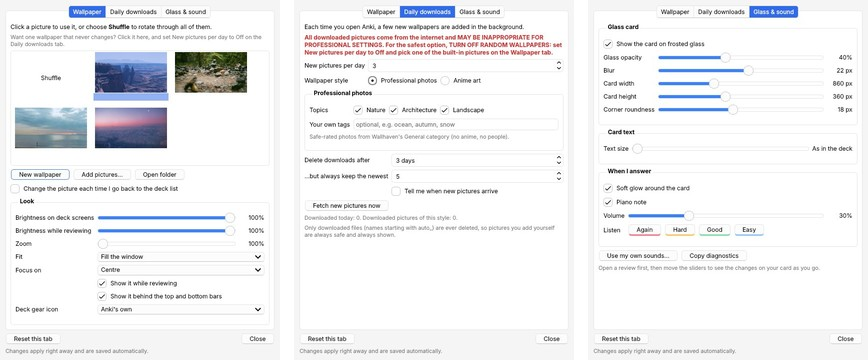
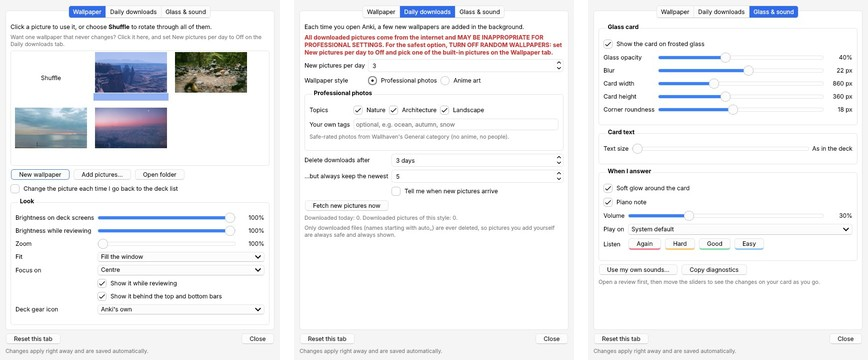
1.3: choose the output device for the piano note
Settings → Glass & sound gets a Play on list (System default plus Qt's
audio outputs). A chosen device is played through QSoundEffect with that
device; the default keeps using Web Audio in the review page.

Claude-Session: https://claude.ai/code/session_012cZ2edc3Z83QWC5adsUwSL

Changed region(s): [[0.6843, 0.6111, 0.9332, 0.7944]]

diff --git a/docs/ankiweb_description.html b/docs/ankiweb_description.html
@@ -7,7 +7,7 @@
 <li><b>Wallpaper behind every screen</b>: deck list, overview, reviewer, and the top and bottom bars, lined up seamlessly in light and dark mode.</li>
 <li><b>New wallpapers every day</b>: professional photos (Nature, Architecture, Landscape, or your own tags) or anime art, safe-rated only, from Wallhaven and Konachan. You can also turn downloads off and keep one picture. Four built-in film photographs are included, and you can add your own.</li>
 <li><b>Frosted-glass card</b> with adjustable opacity, blur, width, height and corners. Cards keep a steady size.</li>
-<li><b>Answer feedback</b>: a soft glow and a short piano note, different for Again, Hard, Good and Easy. You can adjust the volume or turn either off.</li>
+<li><b>Answer feedback</b>: a soft glow and a short piano note, different for Again, Hard, Good and Easy. You can adjust the volume, choose which speakers or headphones play it, or turn either off.</li>
 <li><b>Card text size</b> slider. It changes only the size, so bold, colors and links stay as they are.</li>
 <li><b>New wallpaper</b> button on the deck list, and Ctrl+Shift+W anywhere.</li>
 <li>One <b>Settings</b> window (Tools → Frosted Glass → Settings). Changes show up live.</li>

diff --git a/src/frosted_glass_theme/frosted_glass/web/feedback.js b/src/frosted_glass_theme/frosted_glass/web/feedback.js
@@ -54,6 +54,8 @@
 
   function playSound(key) {
     var buf = buffers[key];
+    // A speaker chosen in Settings is played by the add-on, which can pick it.
+    if (cfg().native_sound && window.pycmd) { pycmd("fgsound:" + key); return; }
     if (ctx && buf && ctx.state === "running") {
       var src = ctx.createBufferSource();
       var fade = ctx.createGain();

diff --git a/src/frosted_glass_theme/frosted_glass/__init__.py b/src/frosted_glass_theme/frosted_glass/__init__.py
@@ -45,6 +45,7 @@ DEFAULTS = {
     "panel_max_width_px": 860,
     "panel_min_height_px": 360,
     "card_font_px": 0,
+    "sound_device": "",        # "" = system default; else the device's name
     "corner_radius_px": 18,
     "colors": {"again": "#ff7a8a", "hard": "#ffc56b", "good": "#7fe0a8", "easy": "#8cc8ff"},
 }
@@ -154,6 +155,8 @@ def page_config(cfg):
         "text_px": int(_num(cfg.get("card_font_px"), 0, 0, 96)),
         "glow_on": bool(cfg.get("visual_feedback_enabled", True)),
         "sound_on": bool(cfg.get("sound_enabled", True)),
+        # a chosen speaker is played through Qt, which can pick the device
+        "native_sound": chosen_device(cfg) is not None,
         "answer_keys": answer_keys(),
         "vars": {
             "--fg-blur": f"{_num(cfg.get('blur_px'), 22, 0, 60):g}px",
@@ -230,7 +233,32 @@ _next = {}
 _sound_ok = None
 
 
-def load_sounds():
+def output_devices():
+    """Names of the speakers and headphones Qt can play to."""
+    try:
+        from PyQt6.QtMultimedia import QMediaDevices
+        return [d.description() for d in QMediaDevices.audioOutputs()]
+    except Exception:
+        return []
+
+
+def chosen_device(cfg=None):
+    """The QAudioDevice picked in Settings, or None for the system default
+    (also when the picked one isn't plugged in right now)."""
+    name = str((cfg or get_config()).get("sound_device") or "")
+    if not name:
+        return None
+    try:
+        from PyQt6.QtMultimedia import QMediaDevices
+        for device in QMediaDevices.audioOutputs():
+            if device.description() == name:
+                return device
+    except Exception:
+        pass
+    return None
+
+
+def load_sounds(cfg=None):
     global _sound_ok
     _effects.clear()
     try:
@@ -239,7 +267,9 @@ def load_sounds():
         _sound_ok = False
         log("QtMultimedia not available.\n" + traceback.format_exc())
         return
-    volume = _num(get_config().get("sound_volume"), 0.3, 0.0, 1.0)
+    cfg = cfg or get_config()
+    volume = _num(cfg.get("sound_volume"), 0.3, 0.0, 1.0)
+    device = chosen_device(cfg)
     for key in KEYS:
         path = sound_path(key)
         if not path:
@@ -247,6 +277,8 @@ def load_sounds():
         players = []
         for _ in range(2):
             effect = QSoundEffect(mw)
+            if device is not None:
+                effect.setAudioDevice(device)
             effect.setSource(QUrl.fromLocalFile(path))
             effect.setVolume(volume)
             players.append(effect)

diff --git a/src/frosted_glass_theme/settings_window.py b/src/frosted_glass_theme/settings_window.py
@@ -469,7 +469,20 @@ class GlassTab(QWidget):
         slider.sliderReleased.connect(lambda: fg.play_native("good"))
         self.sliders["sound_volume"] = (slider, 0.01)
         agrid.addLayout(row, 2, 1, 1, 2)
-        agrid.addWidget(QLabel("Listen"), 3, 0)
+        agrid.addWidget(QLabel("Play on"), 3, 0)
+        self.device = QComboBox()
+        self.device.addItem("System default", "")
+        for name in fg.output_devices():
+            self.device.addItem(name, name)
+        current = str(self.cfg.get("sound_device") or "")
+        if current and self.device.findData(current) < 0:
+            self.device.addItem(f"{current} (not connected)", current)
+        self.device.setCurrentIndex(max(0, self.device.findData(current)))
+        self.device.setToolTip("Which speakers or headphones play the piano note. "
+                               "If the one you pick isn't connected, the system default is used.")
+        self.device.currentIndexChanged.connect(self._device_changed)
+        agrid.addWidget(self.device, 3, 1, 1, 2)
+        agrid.addWidget(QLabel("Listen"), 4, 0)
         listen = QHBoxLayout()
         for key in fg.KEYS:
             b = QPushButton(key.capitalize())
@@ -478,7 +491,7 @@ class GlassTab(QWidget):
             b.clicked.connect(lambda _c=False, k=key: fg.play_native(k))
             listen.addWidget(b)
         listen.addStretch(1)
-        agrid.addLayout(listen, 3, 1, 1, 2)
+        agrid.addLayout(listen, 4, 1, 1, 2)
         agrid.setColumnStretch(1, 1)
         layout.addWidget(answer)
 
@@ -513,10 +526,16 @@ class GlassTab(QWidget):
             web.eval(f"window.fgApply && window.fgApply({json.dumps(fg.page_config(self.cfg))});")
         fg.sync_menu(self.cfg)
 
+    def _device_changed(self, _index):
+        self._set("sound_device", self.device.currentData() or "")
+        fg.load_sounds(self.cfg)
+        fg.play_native("good")
+
     def restore_defaults(self):
         for key, (slider, scale) in self.sliders.items():
             slider.setValue(int(round(fg.DEFAULTS[key] / scale)))
         self.text_slider.setValue(TEXT_OFF)
+        self.device.setCurrentIndex(0)
         for option, box in self.checks.items():
             box.setChecked(fg.DEFAULTS[option])
 

diff --git a/docs/ankiweb_description.md b/docs/ankiweb_description.md
@@ -7,7 +7,7 @@
 - **Wallpaper behind every screen**: deck list, overview, reviewer, and the top and bottom bars, lined up seamlessly in light and dark mode.
 - **New wallpapers every day**: professional photos (Nature, Architecture, Landscape, or your own tags) or anime art, safe-rated only, from Wallhaven and Konachan. You can also turn downloads off and keep one picture. Four built-in film photographs are included, and you can add your own.
 - **Frosted-glass card** with adjustable opacity, blur, width, height and corners. Cards keep a steady size.
-- **Answer feedback**: a soft glow and a short piano note, different for Again, Hard, Good and Easy. You can adjust the volume or turn either off.
+- **Answer feedback**: a soft glow and a short piano note, different for Again, Hard, Good and Easy. You can adjust the volume, choose which speakers or headphones play it, or turn either off.
 - **Card text size** slider. It changes only the size, so bold, colors and links stay as they are.
 - **New wallpaper** button on the deck list, and Ctrl+Shift+W anywhere.
 - One **Settings** window (Tools → Frosted Glass → Settings). Changes show up live.

diff --git a/README.md b/README.md
@@ -12,7 +12,7 @@ A calm, good-looking Anki. Your cards sit on a pane of frosted glass over a wall
   - **Anime art** from Konachan and Wallhaven, safe-rated pictures only.
   - Or turn downloads off and keep one picture forever. Four built-in wallpapers are included, and you can add your own.
 - **Frosted-glass card** with adjustable opacity, blur, width, height and corner roundness. Cards keep a steady size, and longer cards grow smoothly.
-- **Answer feedback**: a soft glow in the answer's color, plus a short piano note (Again, Hard, Good and Easy each have their own). You can adjust the volume or turn either off, and use your own sounds if you like.
+- **Answer feedback**: a soft glow in the answer's color, plus a short piano note (Again, Hard, Good and Easy each have their own). You can adjust the volume, pick which speakers or headphones play it, or turn either off, and use your own sounds if you like.
 - **Card text size** slider. It changes only the size; bold, colors and links stay as they are.
 - **New wallpaper** button on the deck list, and **Ctrl+Shift+W** anywhere.
 - **Custom deck gear icons** (optional).

diff --git a/docs/ankiweb_update_1.3.md b/docs/ankiweb_update_1.3.md
@@ -1,4 +1,12 @@
-## What's new in 1.1
+## What's new in 1.3
+
+- **Choose your speakers:** pick which speakers or headphones play the piano note in Settings → Glass & sound → *Play on*. If the one you picked isn't connected, the system default is used.
+
+## 1.2
+
+- **Less flashing on new cards:** on some Windows PCs the card and glass panel still flashed when a new card loaded. The glass is now a separate layer behind the card, so loading a card never redraws it, and the new text simply replaces the old.
+
+## 1.1
 
 - **No more flashing:** on some PCs the glass card flashed every time a new card appeared. The card now stays on screen and only its text changes.
 - **Card height fixed:** in smaller Anki windows the card couldn't reach the height you set. Your card height is now the minimum on every card, up to the full height of the window, and longer cards still grow past it.

diff --git a/CHANGELOG.md b/CHANGELOG.md
@@ -1,5 +1,9 @@
 # Changelog
 
+## 1.3
+
+- New: choose which speakers or headphones play the piano note (Settings → Glass & sound → Play on). If the one you picked isn't connected, the system default is used.
+
 ## 1.2
 
 - Fixed: the card and glass panel still flashed when a new card loaded on some Windows PCs. The frosted glass is now its own layer behind the card, so loading a card never redraws it, and the new card's text simply replaces the old one instead of blinking out first.
